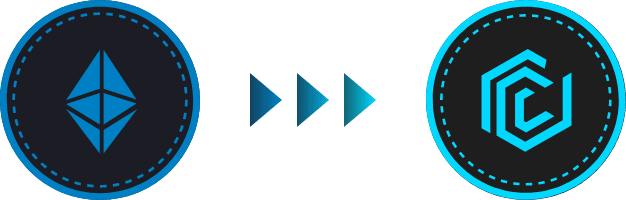
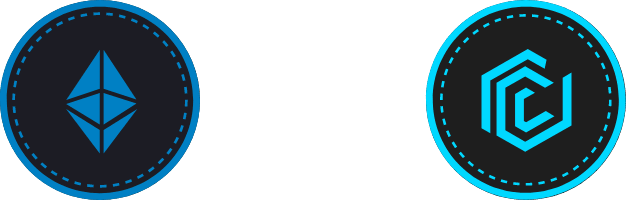
update: added main animation

Changed region(s): [[0.3946, 0.36, 0.607, 0.63]]

diff --git a/src/organisms/intro/styles.tsx b/src/organisms/intro/styles.tsx
@@ -1,20 +1,8 @@
-import styled from "styled-components";
+import styled, { keyframes } from "styled-components";
 
 export const IntroContainer = styled.div`
   width: 100%;
   padding-bottom: 50px;
-`;
-
-export const SwapIcon = styled.div`
-  width: 100%;
-  height: 200px;
-  margin: auto;
-  margin-top: 40px;
-  margin-bottom: 50px;
-  background-image: url("${process.env.PUBLIC_URL + "/images/main.png"}");
-  background-size: contain;
-  background-repeat: no-repeat;
-  background-position: center;
 `;
 
 export const SwapButton = styled.div`
@@ -121,4 +109,61 @@ export const LoadingWrapper = styled.div<{ active: boolean }>`
   justify-content: center;
   align-items: center;
   ${(props) => (props.active ? `` : `display:none`)}
+`;
+
+export const SwapIcon = styled.div`
+  width: 100%;
+  height: 200px;
+  margin: auto;
+  margin-top: 40px;
+  margin-bottom: 50px;
+  background-image: url("${process.env.PUBLIC_URL + "/images/main.png"}");
+  background-size: contain;
+  background-repeat: no-repeat;
+  background-position: center;
+  display: flex;
+  justify-content: center;
+  align-items: center;
+  gap: 0 15px;
+`;
+
+const fadeInout = keyframes`
+  0%,100% { opacity: 0.2; transform:scale(0.9) }
+  50% { opacity: 1;transform:scale(1) }
+`;
+
+export const ArrowIconFirst = styled.div`
+  width: 32px;
+  height: 54px;
+  background-image: url("${process.env.PUBLIC_URL + `/images/arrow1.png`}");
+  background-position: center;
+  background-size: contain;
+  background-repeat: no-repeat;
+  opacity: 0.2;
+  transform: scale(0.9);
+  animation: ${fadeInout} 2.3s ease-in-out 0s infinite;
+`;
+
+export const ArrowIconSecond = styled.div`
+  width: 32px;
+  height: 54px;
+  background-image: url("${process.env.PUBLIC_URL + `/images/arrow2.png`}");
+  background-position: center;
+  background-size: contain;
+  background-repeat: no-repeat;
+  opacity: 0.2;
+  transform: scale(0.9);
+  animation: ${fadeInout} 2.3s ease-in-out 0.5s infinite;
+`;
+
+export const ArrowIconThird = styled.div`
+  width: 32px;
+  height: 54px;
+  background-image: url("${process.env.PUBLIC_URL + `/images/arrow3.png`}");
+  background-position: center;
+  background-size: contain;
+  background-repeat: no-repeat;
+  opacity: 0.2;
+  transform: scale(0.9);
+  animation: ${fadeInout} 2.3s ease-in-out 1s infinite;
 `;

diff --git a/src/organisms/intro/index.tsx b/src/organisms/intro/index.tsx
@@ -15,6 +15,9 @@ import {
   LoadingWrapper,
   IntroContainer,
   SwapIcon,
+  ArrowIconFirst,
+  ArrowIconSecond,
+  ArrowIconThird,
   SwapButton,
   StatusLink,
   Label,
@@ -116,7 +119,11 @@ const Top = () => {
         <Loader type="MutatingDots" color="#0080c4" secondaryColor="#00d8ff" height={100} width={100} />
       </LoadingWrapper>
       <IntroContainer>
-        <SwapIcon />
+        <SwapIcon>
+          <ArrowIconFirst />
+          <ArrowIconSecond />
+          <ArrowIconThird />
+        </SwapIcon>
         <InputWrapper>
           <Label>Your Firma Wallet Address</Label>
           <LedgerIconImg onClick={getAddressByLedger} />
